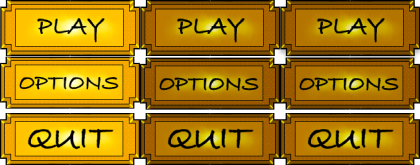
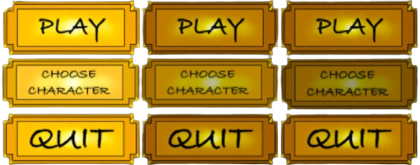
update

diff --git a/src/ui/CharacterButton.java b/src/ui/CharacterButton.java
@@ -12,7 +12,7 @@ import static utilz.Constants.UI.ButtonsCharacter.*;
 public class CharacterButton {
     private int xPos, yPos, index, rowIndex;
     private Gamestate state;
-    private Character character;
+
     private BufferedImage[] images;
     private boolean mouseOver, mousePressed;
     private Rectangle bounds;
@@ -75,10 +75,12 @@ public class CharacterButton {
 
         if (mousePressed) {
             if (index == 0) {
-                LoadPlayerSave.Player_Atlas1 = "sandra_char_sprites.png";
+
             } else if (index == 1) {
+                LoadPlayerSave.Player_Atlas1 = "sandra_char_sprites.png";
 
             } else if (index == 2) {
+                LoadPlayerSave.Player_Atlas1 = "miguel_sprite.png";
 
             } else {
             }
